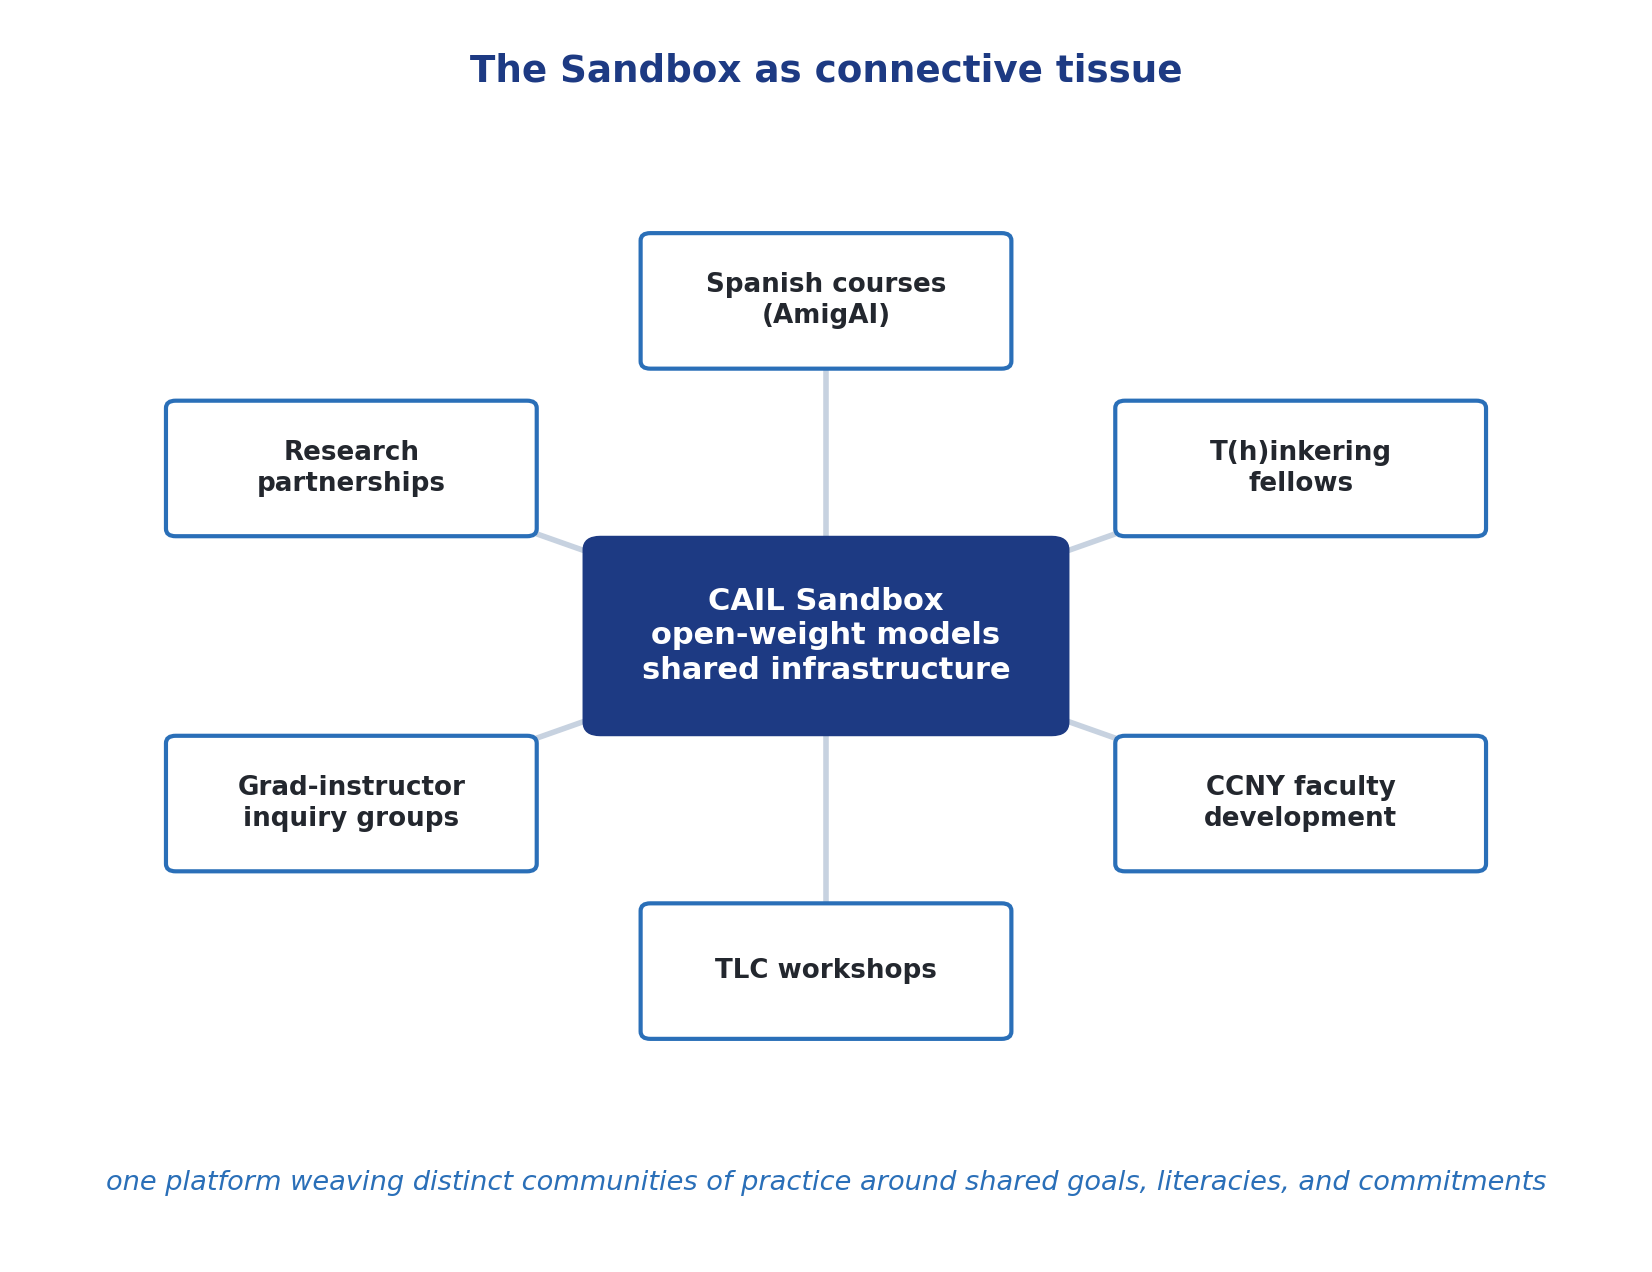
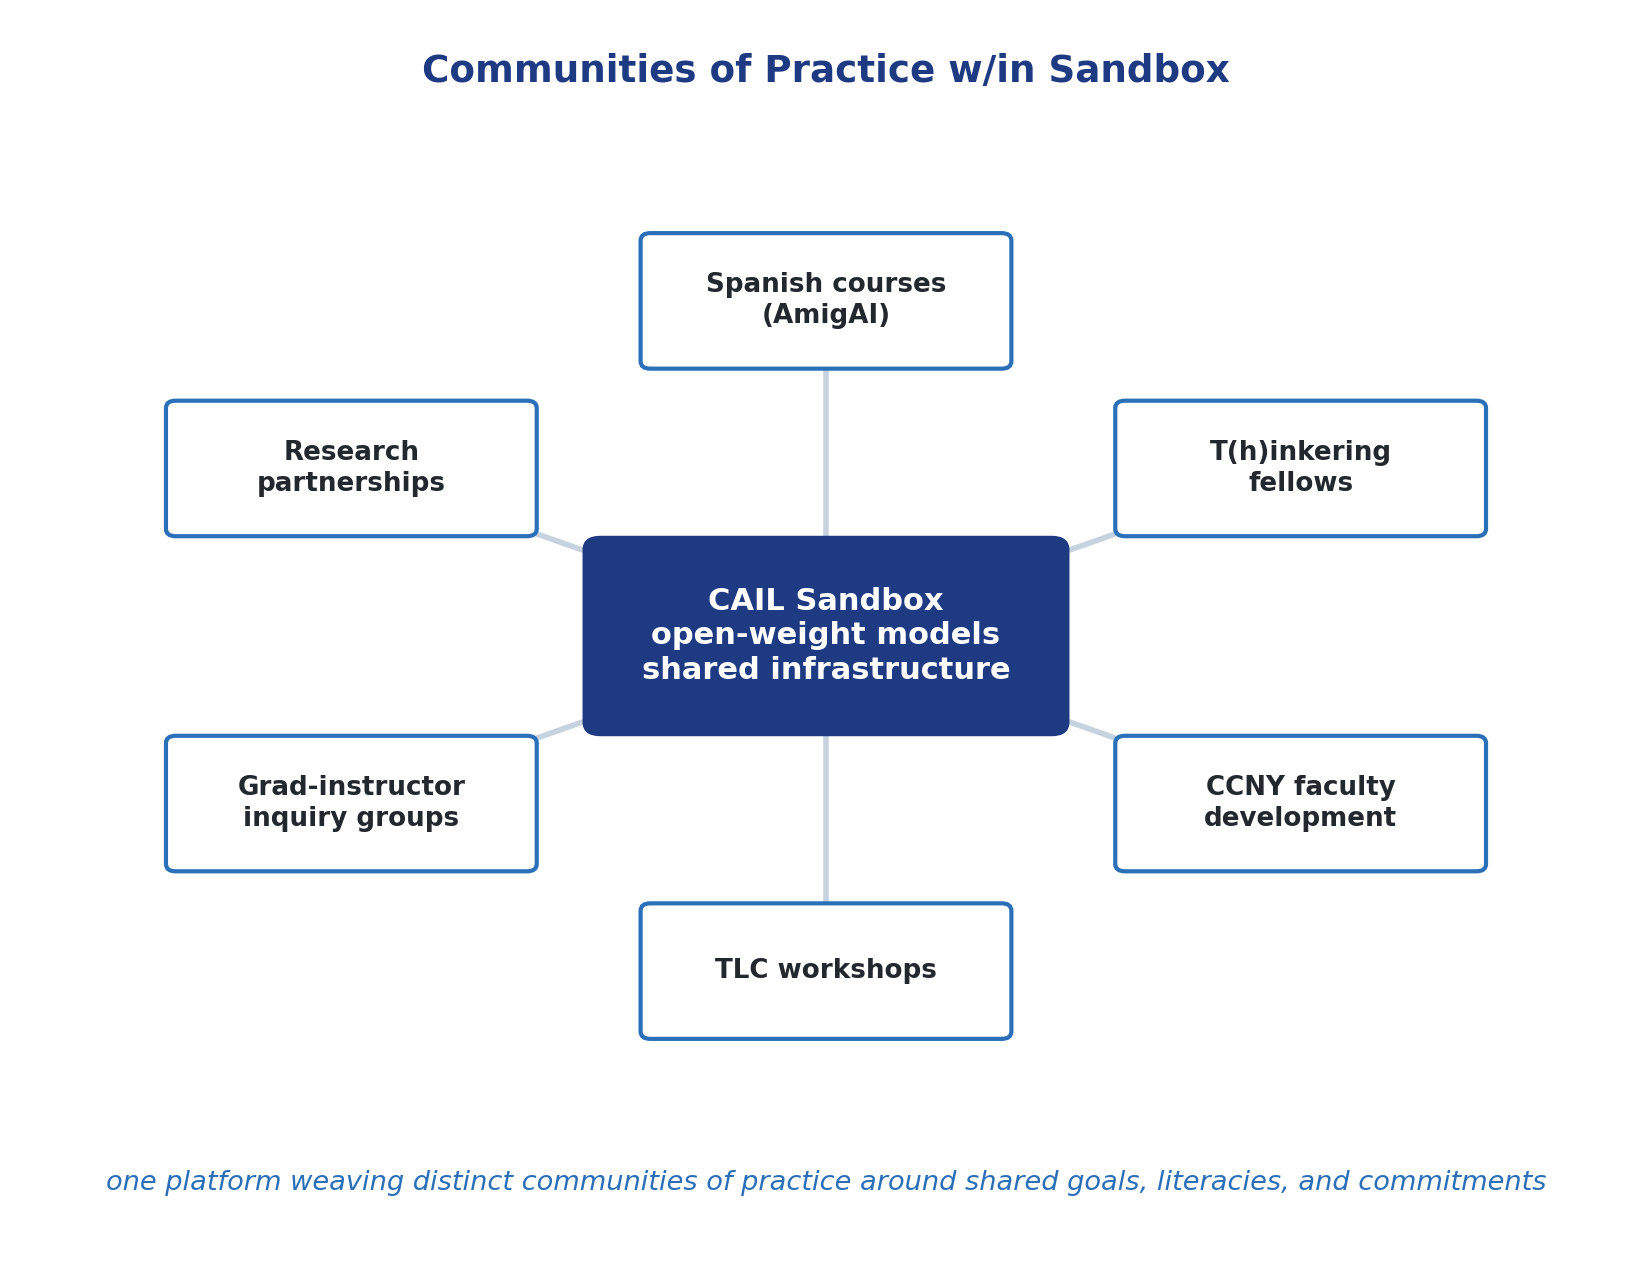
Update communities practice figure title

Changed region(s): [[0.247, 0.0307, 0.7409, 0.0613]]

diff --git a/index.html b/index.html
@@ -349,7 +349,7 @@
       <h1>Communities of Practice within the Sandbox</h1>
     </div>
     <figure class="stage figure-stage">
-      <img src="images/17_communities_hub.png" alt="Communities of practice sharing one environment">
+      <img src="images/17_communities_hub.png?v=20260625a" alt="Diagram titled Communities of Practice w/in Sandbox, showing the CUNY AI Lab Sandbox as shared infrastructure for Spanish courses, T(h)inkering fellows, CCNY faculty development, TLC workshops, grad-instructor inquiry groups, and research partnerships">
     </figure>
   </section>
 

diff --git a/SLIDES.md b/SLIDES.md
@@ -169,7 +169,7 @@ bottom of this file.
 - image: **`owui_model_cards.png`** (course-specific model configurations)
 
 ### 23 · `zach-6` (figure-side) — Communities of Practice within the Sandbox
-- image: **`17_communities_hub.png`** (the Sandbox as connective tissue — near-square diagram)
+- image: **`17_communities_hub.png`** (figure title: **Communities of Practice w/in Sandbox** — near-square diagram)
 
 ### 24 · `zach-7` (figure-hero) — T(h)inkering with Faculty Fellows
 - image: **`18_thinkering_fellows.png`** (fellows across five disciplines)